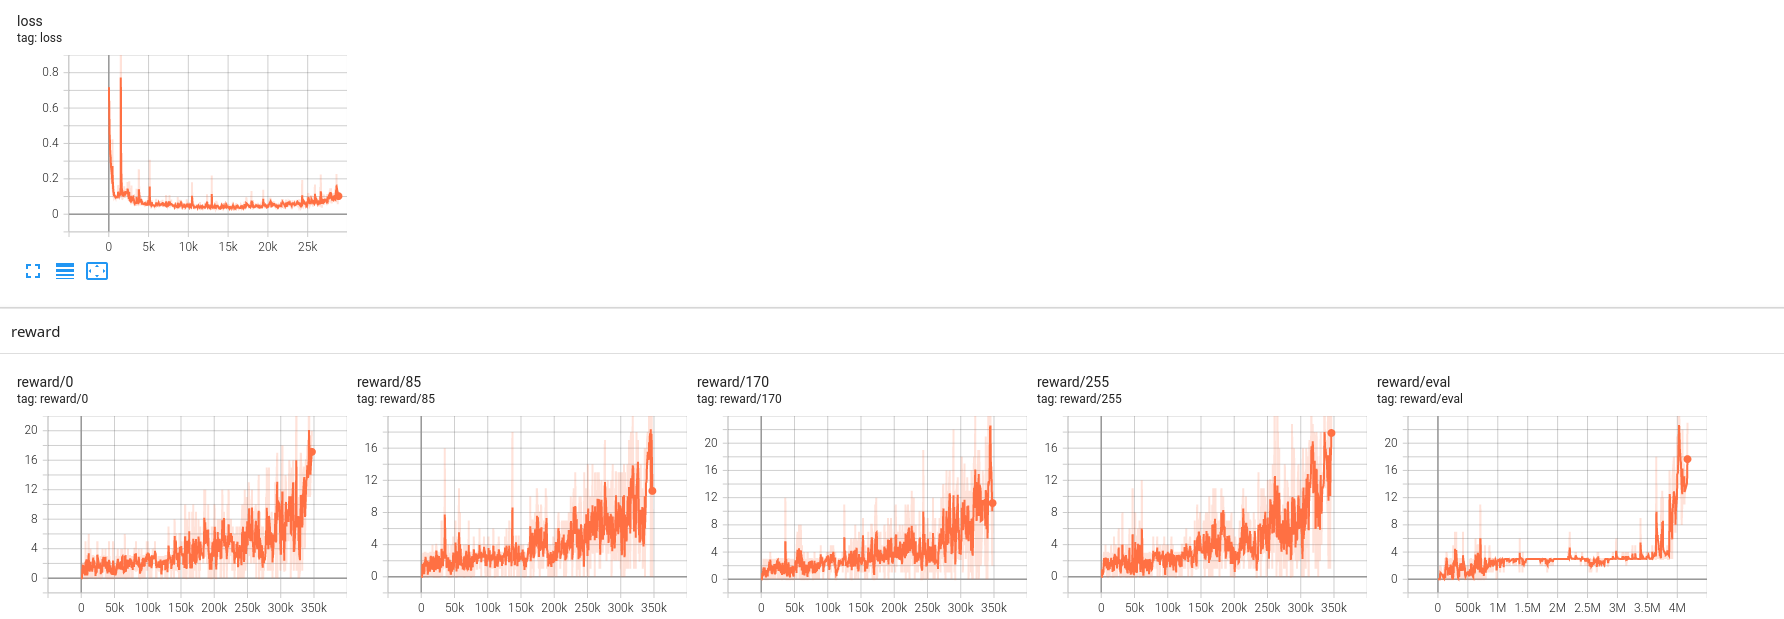
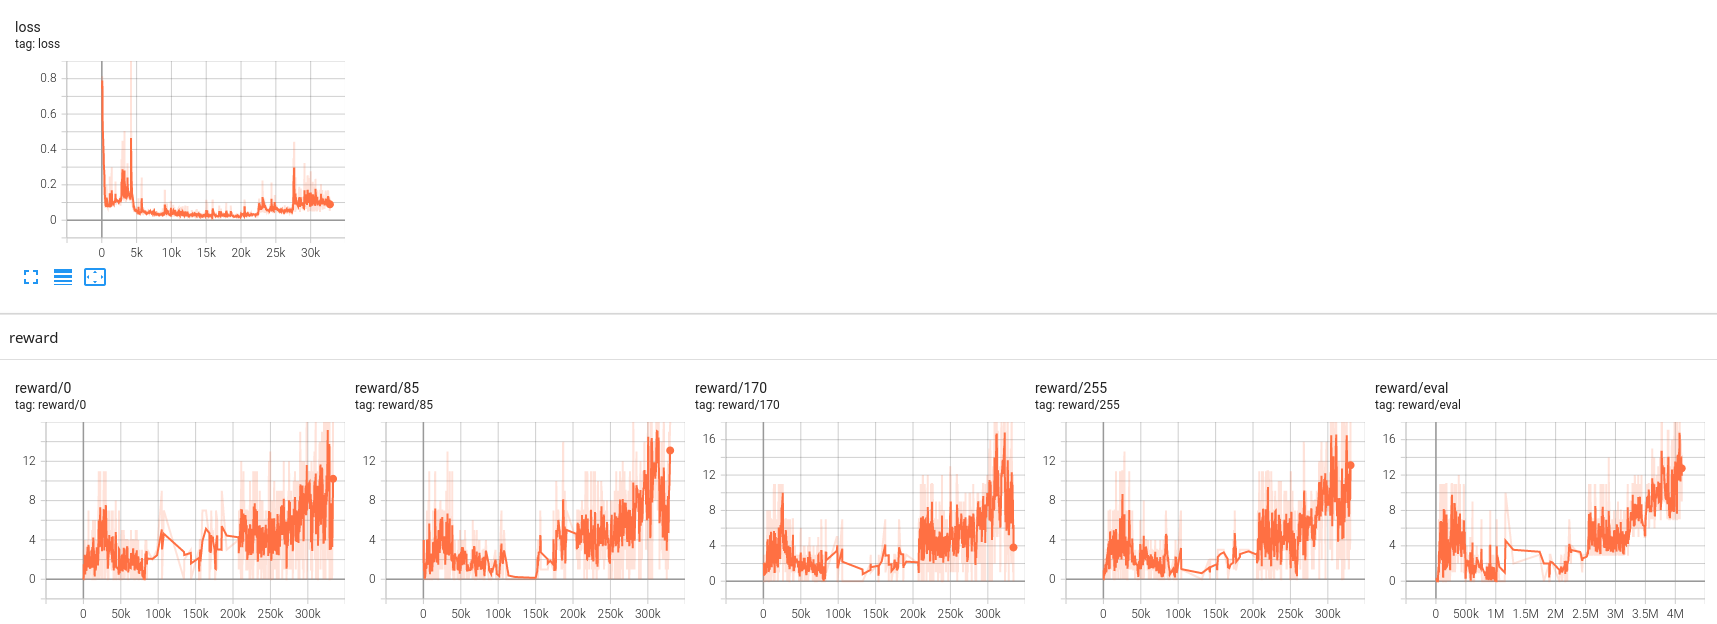
メタコントローラーの初期選択値を変更

diff --git a/meta_controller.py b/meta_controller.py
@@ -23,7 +23,7 @@ class MetaController:
 
   def reset(self):
     self._reward_table[self._all_ids] = 0
-    self._arm_index[self._all_ids] = 0
+    self._arm_index[self._all_ids] = self._config.num_arms - 1
     beta = np.take_along_axis(self._betas, self._arm_index, axis=1)
     gamma = np.take_along_axis(self._gammas, self._arm_index, axis=1)
     return beta.squeeze(-1), gamma.squeeze(-1)
@@ -37,7 +37,7 @@ class MetaController:
     gamma = np.take_along_axis(self._gammas, self._arm_index, axis=1)
     return beta.squeeze(-1), gamma.squeeze(-1)
 
-  def _arg_max_index(self, ids, steps):
+  def _get_max_arg_index(self, ids, steps):
     steps = np.where(steps < 2, 2, steps)
     window_size = self._config.bandit_window_size
     np_window_size = np.empty(len(ids))
@@ -48,9 +48,9 @@ class MetaController:
 
   def _get_arm_index(self, ids, steps):
     batch_size = len(ids)
-    indexes = np.where(steps[ids] < self._config.num_arms, steps[ids],
+    indexes = np.where(steps[ids] < self._config.num_arms, self._config.num_arms - steps[ids] - 1,
                        np.where(self._rng.random(batch_size) >= self._config.bandit_epsilon,
-                                self._arg_max_index(ids, steps),
+                                self._get_max_arg_index(ids, steps),
                                 self._rng.integers(0, self._config.num_arms - 1, size=batch_size))
                        )
     return indexes

diff --git a/tests/meta_controller_test.py b/tests/meta_controller_test.py
@@ -3,7 +3,7 @@ from config import Config
 from meta_controller import MetaController
 
 
-def test_arm_max_index():
+def test_get_max_arg_index():
   config = Config()
 
   config.num_env_batches = 3
@@ -30,7 +30,7 @@ def test_arm_max_index():
   meta_controller._reward_table[ids, 0, 25] = np.array([3, 4, 5])
   meta_controller._reward_table[ids, 3, 25] = np.array([3, 4, 5])
 
-  values = meta_controller._arg_max_index(ids, steps)
+  values = meta_controller._get_max_arg_index(ids, steps)
   expected = np.array([25, 15, 25])
 
   np.testing.assert_array_equal(values, expected)

diff --git a/learner.py b/learner.py
@@ -112,7 +112,7 @@ def inference_loop(actor_indexes, infer_model, transition_queue, shared_env_data
     # batched_env_output.done(t)
 
     ret = local_buffer.add(agent_input_data, select_action_output, batched_env_output, betas, gammas)
-    if ret and transition_queue.qsize() < 10:
+    if ret and transition_queue.qsize() < config.num_train_envs:
       transitions, qvalues = ret
       qvalues = torch.from_numpy(qvalues[:, config.replay_period:]).to(torch.float32).to(device)
 

diff --git a/actor.py b/actor.py
@@ -50,6 +50,7 @@ def actor_loop(ids, log_ids, share_env_data, config: Config):
         env_id = ids[index]
         if env_id in log_ids:
           summary_writer.add_scalar(f"reward/{env_id}", episode_rewards[index], total_steps)
+          summary_writer.add_scalar(f"beta/{env_id}", betas[index], episode_counts[index])
 
       episode_rewards[indexes] = 0
 
